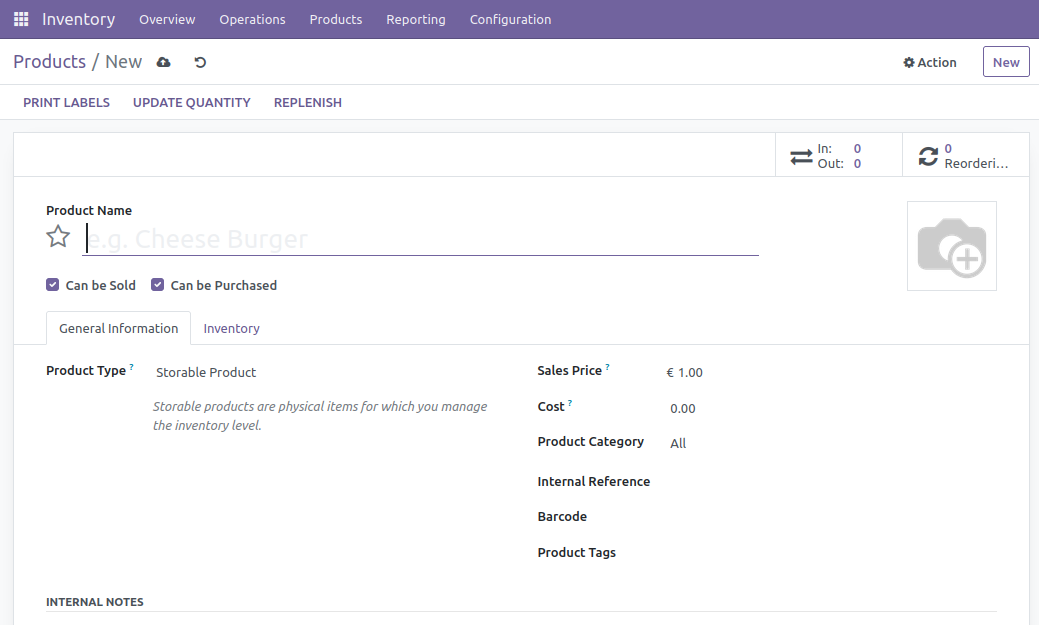
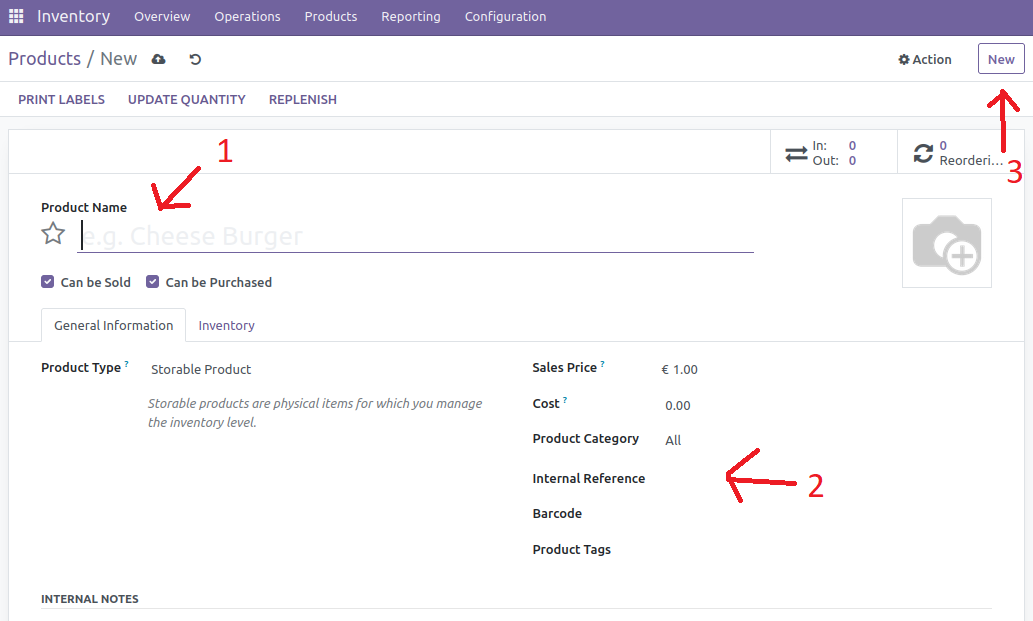
updated pic

diff --git a/readme.md b/readme.md
@@ -46,7 +46,7 @@ Click "New" and create 6 new products using the table below<br>
  1. Fill in "Product name"
  2. Fill in "Internal reference"
  3. Click "New"
-   
+   ![alt text](https://github.com/Daniel-Baun/NiryorobotAU/blob/master/Figures/Screenshot%20from%202023-06-01%2013-25-58.png?raw=true)
 | Product name    | Internal reference |
 |-----------------|--------------------|
 | Green Rectangle | GR01               |
